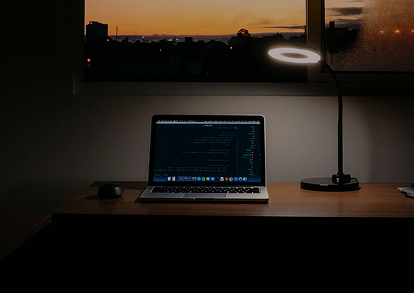
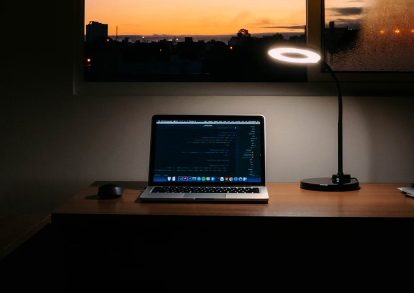
fixed hero image overlay

Changed region(s): [[0.2609, 0.3072, 1.0, 0.7679], [0.2029, 0.0, 0.7826, 0.2457], [0.7826, 0.0, 1.0, 0.1843]]

diff --git a/css/style.css b/css/style.css
@@ -1,6 +1,6 @@
 /* GENERAL STYLES */
 
-html, 
+html,
 body {
     margin: 0;
     padding: 0;
@@ -15,6 +15,8 @@ body {
 .hero {
     background-image: url('/images/article-image-hero.png');
     background-size: cover;
+    background-color: rgba(0, 0, 0, 0.3);
+    background-blend-mode: overlay;
     color: white;
 }
 
@@ -47,7 +49,7 @@ aside p {
 }
 
 /*  =================
-        TYPOGRAPHY  
+        TYPOGRAPHY
     =================*/
 h1 {
     font-size: 0.85em;
@@ -122,13 +124,13 @@ footer {
 }
 
 /*  **************************
-        DISPLAY GRID  
+        DISPLAY GRID
     **************************/
 
 body {
     display: grid;
     grid-template-columns: repeat(1, 1fr);
-    grid-template-areas: 
+    grid-template-areas:
         "head"
         "main"
         "foot";
@@ -156,7 +158,7 @@ header article {        /* hero article */
 
     display: grid;
     grid-template: 1fr 1em repeat(2, 1fr) 1.1em / 1.25em 1fr 1.25em;
-    grid-template-areas: 
+    grid-template-areas:
         ". .... ."
         ". hrh2 ."
         ". hrh3 ."
